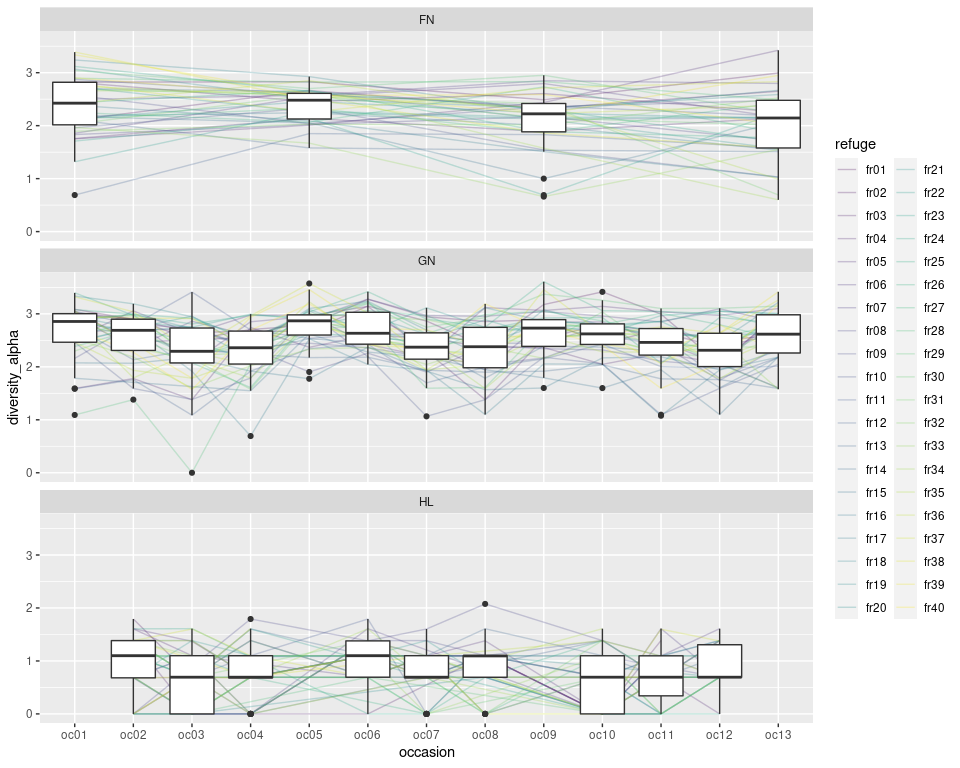
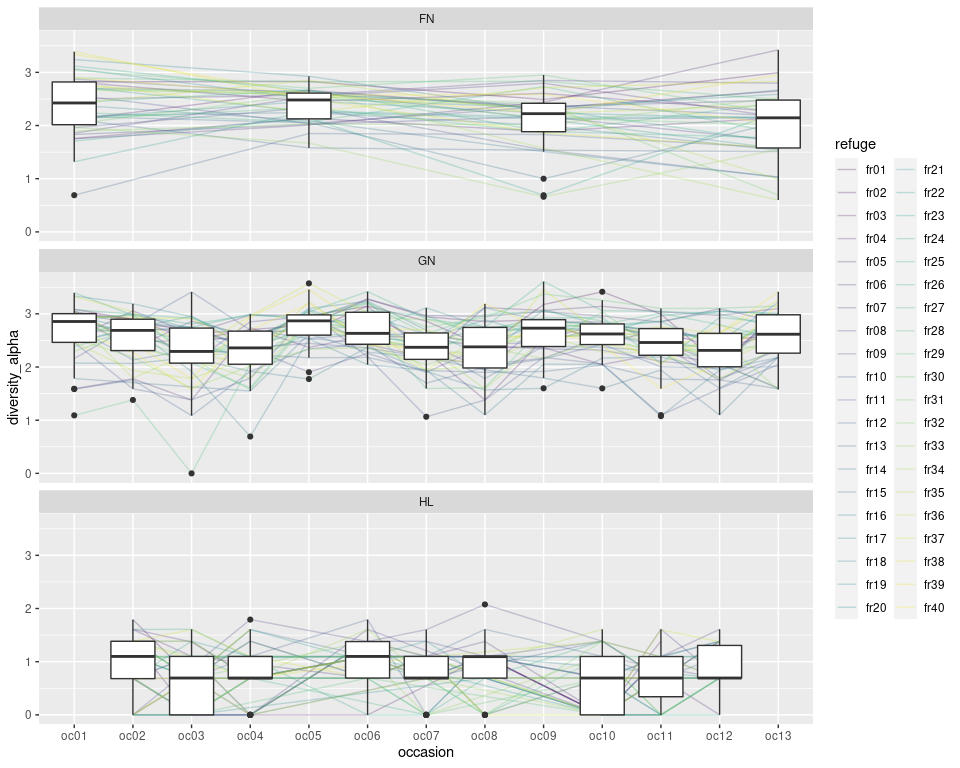
Further checks to diversity notebook

diff --git a/notebooks/diversity.md b/notebooks/diversity.md
@@ -86,7 +86,7 @@ occasion_cov <- occasion_info %>%
          visibility = secchi_depth, 
          aquatic_plant_index = aquatic_plant_area * aquatic_plant_density, 
          across(c("month", "year"), as.character)) %>%
-  select(occasion, year, season, month, water_level, water_temp, visibility,
+  select(refuge, occasion, year, season, month, water_level, water_temp, visibility,
          aquatic_plant_area, aquatic_plant_index, brush_park) %>%
   distinct()
 
@@ -99,7 +99,7 @@ refuge_cov <- refuge_info %>%
 
 diversity_cov <- diversity %>%
   left_join(refuge_cov, by = "refuge") %>%
-  left_join(occasion_cov, by = "occasion") %>%
+  left_join(occasion_cov, by = c("occasion", "refuge")) %>%
   filter(gear == "GN")
 ```
 
@@ -116,8 +116,8 @@ inspectdf::inspect_na(diversity_cov) %>% filter(pcnt > 0) %>% knitr::kable()
 
 | col\_name             | cnt |      pcnt |
 | :-------------------- | --: | --------: |
-| water\_temp           | 280 | 1.3564577 |
-| aquatic\_plant\_index |  40 | 0.1937797 |
+| water\_temp           |   7 | 1.3513514 |
+| aquatic\_plant\_index |   1 | 0.1930502 |
 
 It appears that all cases of missing water temperature are within the
 first occasion at the end of the wet season in 2012.
@@ -216,23 +216,23 @@ summary(m_c)
     ## 
     ## Residuals:
     ##      Min       1Q   Median       3Q      Max 
-    ## -2.33744 -0.26551  0.05699  0.32983  1.07401 
+    ## -2.33628 -0.26363  0.05577  0.32932  1.07517 
     ## 
     ## Coefficients:
-    ##              Estimate Std. Error t value Pr(>|t|)    
-    ## (Intercept)  2.675336   0.011630 230.045  < 2e-16 ***
-    ## month2      -0.046763   0.009536  -4.904 9.46e-07 ***
-    ## month5      -0.324776   0.009536 -34.060  < 2e-16 ***
-    ## month8      -0.354416   0.009496 -37.324  < 2e-16 ***
-    ## year2013    -0.013122   0.014257  -0.920    0.357    
-    ## year2014     0.020079   0.014247   1.409    0.159    
-    ## year2015    -0.013607   0.014247  -0.955    0.340    
+    ##             Estimate Std. Error t value Pr(>|t|)    
+    ## (Intercept)  2.67534    0.07409  36.107  < 2e-16 ***
+    ## month2      -0.04734    0.06063  -0.781    0.435    
+    ## month5      -0.32535    0.06063  -5.367 1.22e-07 ***
+    ## month8      -0.35442    0.06050  -5.858 8.38e-09 ***
+    ## year2013    -0.01370    0.09079  -0.151    0.880    
+    ## year2014     0.02037    0.09076   0.224    0.823    
+    ## year2015    -0.01332    0.09076  -0.147    0.883    
     ## ---
     ## Signif. codes:  0 '***' 0.001 '**' 0.01 '*' 0.05 '.' 0.1 ' ' 1
     ## 
-    ## Residual standard error: 0.4652 on 20635 degrees of freedom
-    ## Multiple R-squared:  0.1077, Adjusted R-squared:  0.1074 
-    ## F-statistic: 414.9 on 6 and 20635 DF,  p-value: < 2.2e-16
+    ## Residual standard error: 0.4686 on 511 degrees of freedom
+    ## Multiple R-squared:  0.1075, Adjusted R-squared:  0.09702 
+    ## F-statistic: 10.26 on 6 and 511 DF,  p-value: 9.781e-11
 
 ``` r
 m_m <- lm(diversity_alpha ~ water_level + aquatic_plant_area + brush_park + water_temp, 
@@ -247,22 +247,22 @@ summary(m_m)
     ## 
     ## Residuals:
     ##      Min       1Q   Median       3Q      Max 
-    ## -2.57908 -0.29393  0.05067  0.37234  1.13308 
+    ## -2.48739 -0.30476  0.04681  0.36366  1.10807 
     ## 
     ## Coefficients:
     ##                      Estimate Std. Error t value Pr(>|t|)    
-    ## (Intercept)         2.862e+00  4.096e-02  69.874   <2e-16 ***
-    ## water_level         3.915e-04  4.613e-05   8.486   <2e-16 ***
-    ## aquatic_plant_area  2.377e-04  1.268e-04   1.875   0.0608 .  
-    ## brush_park         -1.317e-05  1.500e-05  -0.878   0.3799    
-    ## water_temp         -1.457e-02  1.342e-03 -10.859   <2e-16 ***
+    ## (Intercept)         2.958e+00  2.569e-01  11.517   <2e-16 ***
+    ## water_level         1.388e-04  2.893e-04   0.480   0.6316    
+    ## aquatic_plant_area -9.713e-04  7.941e-04  -1.223   0.2218    
+    ## brush_park          1.696e-04  9.406e-05   1.803   0.0719 .  
+    ## water_temp         -1.639e-02  8.415e-03  -1.947   0.0521 .  
     ## ---
     ## Signif. codes:  0 '***' 0.001 '**' 0.01 '*' 0.05 '.' 0.1 ' ' 1
     ## 
-    ## Residual standard error: 0.4896 on 20357 degrees of freedom
-    ##   (280 observations deleted due to missingness)
-    ## Multiple R-squared:  0.009384,   Adjusted R-squared:  0.00919 
-    ## F-statistic: 48.21 on 4 and 20357 DF,  p-value: < 2.2e-16
+    ## Residual standard error: 0.4864 on 506 degrees of freedom
+    ##   (7 observations deleted due to missingness)
+    ## Multiple R-squared:  0.01968,    Adjusted R-squared:  0.01193 
+    ## F-statistic:  2.54 on 4 and 506 DF,  p-value: 0.03914
 
 We found that the average difference between the beginning and end of
 the seasons is fairly small and that the differences among years is also
@@ -277,3 +277,202 @@ categorical variable.
 If we use models like this in the actual paper we should focus on the
 categorical model and explain how environmental co-variates change
 across seasons.
+
+``` r
+diversity_wide <- diversity_cov %>%
+  mutate(year_s = (as.numeric(substr(occasion, 3, 4))-1) %/% 4, 
+         month_s = paste0("m_", month)) %>% 
+  pivot_wider(id_cols = c(refuge, year), 
+              names_from = month_s, 
+              values_from = diversity_alpha) 
+
+diversity_wide %>%
+  inspectdf::inspect_cor() %>%
+  inspectdf::show_plot()
+```
+
+![](diversity_files/figure-gfm/unnamed-chunk-13-1.png)<!-- -->
+
+``` r
+library(brms)
+```
+
+    ## Loading required package: Rcpp
+
+    ## Loading 'brms' package (version 2.14.4). Useful instructions
+    ## can be found by typing help('brms'). A more detailed introduction
+    ## to the package is available through vignette('brms_overview').
+
+    ## 
+    ## Attaching package: 'brms'
+
+    ## The following object is masked from 'package:stats':
+    ## 
+    ##     ar
+
+``` r
+m_dw <- brm(m_8 ~ m_5 + (1 | year) + (1 | refuge), data = diversity_wide)
+```
+
+    ## Compiling Stan program...
+
+    ## Trying to compile a simple C file
+
+    ## Running /usr/local/lib/R/bin/R CMD SHLIB foo.c
+    ## make[1]: Entering directory '/tmp/RtmpZ9o6Ja'
+    ## gcc -I"/usr/local/lib/R/include" -DNDEBUG   -I"/usr/local/lib/R/site-library/Rcpp/include/"  -I"/usr/local/lib/R/site-library/RcppEigen/include/"  -I"/usr/local/lib/R/site-library/RcppEigen/include/unsupported"  -I"/usr/local/lib/R/site-library/BH/include" -I"/usr/local/lib/R/site-library/StanHeaders/include/src/"  -I"/usr/local/lib/R/site-library/StanHeaders/include/"  -I"/usr/local/lib/R/site-library/RcppParallel/include/"  -I"/usr/local/lib/R/site-library/rstan/include" -DEIGEN_NO_DEBUG  -DBOOST_DISABLE_ASSERTS  -DBOOST_PENDING_INTEGER_LOG2_HPP  -DSTAN_THREADS  -DBOOST_NO_AUTO_PTR  -include '/usr/local/lib/R/site-library/StanHeaders/include/stan/math/prim/mat/fun/Eigen.hpp'  -D_REENTRANT -DRCPP_PARALLEL_USE_TBB=1   -I/usr/local/include   -fpic  -g -O2 -fstack-protector-strong -Wformat -Werror=format-security -Wdate-time -D_FORTIFY_SOURCE=2 -g  -c foo.c -o foo.o
+    ## In file included from /usr/local/lib/R/site-library/RcppEigen/include/Eigen/Core:88,
+    ##                  from /usr/local/lib/R/site-library/RcppEigen/include/Eigen/Dense:1,
+    ##                  from /usr/local/lib/R/site-library/StanHeaders/include/stan/math/prim/mat/fun/Eigen.hpp:13,
+    ##                  from <command-line>:
+    ## /usr/local/lib/R/site-library/RcppEigen/include/Eigen/src/Core/util/Macros.h:613:1: error: unknown type name ‘namespace’
+    ##   613 | namespace Eigen {
+    ##       | ^~~~~~~~~
+    ## /usr/local/lib/R/site-library/RcppEigen/include/Eigen/src/Core/util/Macros.h:613:17: error: expected ‘=’, ‘,’, ‘;’, ‘asm’ or ‘__attribute__’ before ‘{’ token
+    ##   613 | namespace Eigen {
+    ##       |                 ^
+    ## In file included from /usr/local/lib/R/site-library/RcppEigen/include/Eigen/Dense:1,
+    ##                  from /usr/local/lib/R/site-library/StanHeaders/include/stan/math/prim/mat/fun/Eigen.hpp:13,
+    ##                  from <command-line>:
+    ## /usr/local/lib/R/site-library/RcppEigen/include/Eigen/Core:96:10: fatal error: complex: No such file or directory
+    ##    96 | #include <complex>
+    ##       |          ^~~~~~~~~
+    ## compilation terminated.
+    ## make[1]: *** [/usr/local/lib/R/etc/Makeconf:167: foo.o] Error 1
+    ## make[1]: Leaving directory '/tmp/RtmpZ9o6Ja'
+
+    ## Start sampling
+
+    ## 
+    ## SAMPLING FOR MODEL 'd29713d24a31c0a529f235cfe9de0b12' NOW (CHAIN 1).
+    ## Chain 1: 
+    ## Chain 1: Gradient evaluation took 2.5e-05 seconds
+    ## Chain 1: 1000 transitions using 10 leapfrog steps per transition would take 0.25 seconds.
+    ## Chain 1: Adjust your expectations accordingly!
+    ## Chain 1: 
+    ## Chain 1: 
+    ## Chain 1: Iteration:    1 / 2000 [  0%]  (Warmup)
+    ## Chain 1: Iteration:  200 / 2000 [ 10%]  (Warmup)
+    ## Chain 1: Iteration:  400 / 2000 [ 20%]  (Warmup)
+    ## Chain 1: Iteration:  600 / 2000 [ 30%]  (Warmup)
+    ## Chain 1: Iteration:  800 / 2000 [ 40%]  (Warmup)
+    ## Chain 1: Iteration: 1000 / 2000 [ 50%]  (Warmup)
+    ## Chain 1: Iteration: 1001 / 2000 [ 50%]  (Sampling)
+    ## Chain 1: Iteration: 1200 / 2000 [ 60%]  (Sampling)
+    ## Chain 1: Iteration: 1400 / 2000 [ 70%]  (Sampling)
+    ## Chain 1: Iteration: 1600 / 2000 [ 80%]  (Sampling)
+    ## Chain 1: Iteration: 1800 / 2000 [ 90%]  (Sampling)
+    ## Chain 1: Iteration: 2000 / 2000 [100%]  (Sampling)
+    ## Chain 1: 
+    ## Chain 1:  Elapsed Time: 0.350817 seconds (Warm-up)
+    ## Chain 1:                0.188193 seconds (Sampling)
+    ## Chain 1:                0.53901 seconds (Total)
+    ## Chain 1: 
+    ## 
+    ## SAMPLING FOR MODEL 'd29713d24a31c0a529f235cfe9de0b12' NOW (CHAIN 2).
+    ## Chain 2: 
+    ## Chain 2: Gradient evaluation took 1.7e-05 seconds
+    ## Chain 2: 1000 transitions using 10 leapfrog steps per transition would take 0.17 seconds.
+    ## Chain 2: Adjust your expectations accordingly!
+    ## Chain 2: 
+    ## Chain 2: 
+    ## Chain 2: Iteration:    1 / 2000 [  0%]  (Warmup)
+    ## Chain 2: Iteration:  200 / 2000 [ 10%]  (Warmup)
+    ## Chain 2: Iteration:  400 / 2000 [ 20%]  (Warmup)
+    ## Chain 2: Iteration:  600 / 2000 [ 30%]  (Warmup)
+    ## Chain 2: Iteration:  800 / 2000 [ 40%]  (Warmup)
+    ## Chain 2: Iteration: 1000 / 2000 [ 50%]  (Warmup)
+    ## Chain 2: Iteration: 1001 / 2000 [ 50%]  (Sampling)
+    ## Chain 2: Iteration: 1200 / 2000 [ 60%]  (Sampling)
+    ## Chain 2: Iteration: 1400 / 2000 [ 70%]  (Sampling)
+    ## Chain 2: Iteration: 1600 / 2000 [ 80%]  (Sampling)
+    ## Chain 2: Iteration: 1800 / 2000 [ 90%]  (Sampling)
+    ## Chain 2: Iteration: 2000 / 2000 [100%]  (Sampling)
+    ## Chain 2: 
+    ## Chain 2:  Elapsed Time: 0.432774 seconds (Warm-up)
+    ## Chain 2:                0.369537 seconds (Sampling)
+    ## Chain 2:                0.802311 seconds (Total)
+    ## Chain 2: 
+    ## 
+    ## SAMPLING FOR MODEL 'd29713d24a31c0a529f235cfe9de0b12' NOW (CHAIN 3).
+    ## Chain 3: 
+    ## Chain 3: Gradient evaluation took 1.8e-05 seconds
+    ## Chain 3: 1000 transitions using 10 leapfrog steps per transition would take 0.18 seconds.
+    ## Chain 3: Adjust your expectations accordingly!
+    ## Chain 3: 
+    ## Chain 3: 
+    ## Chain 3: Iteration:    1 / 2000 [  0%]  (Warmup)
+    ## Chain 3: Iteration:  200 / 2000 [ 10%]  (Warmup)
+    ## Chain 3: Iteration:  400 / 2000 [ 20%]  (Warmup)
+    ## Chain 3: Iteration:  600 / 2000 [ 30%]  (Warmup)
+    ## Chain 3: Iteration:  800 / 2000 [ 40%]  (Warmup)
+    ## Chain 3: Iteration: 1000 / 2000 [ 50%]  (Warmup)
+    ## Chain 3: Iteration: 1001 / 2000 [ 50%]  (Sampling)
+    ## Chain 3: Iteration: 1200 / 2000 [ 60%]  (Sampling)
+    ## Chain 3: Iteration: 1400 / 2000 [ 70%]  (Sampling)
+    ## Chain 3: Iteration: 1600 / 2000 [ 80%]  (Sampling)
+    ## Chain 3: Iteration: 1800 / 2000 [ 90%]  (Sampling)
+    ## Chain 3: Iteration: 2000 / 2000 [100%]  (Sampling)
+    ## Chain 3: 
+    ## Chain 3:  Elapsed Time: 0.442173 seconds (Warm-up)
+    ## Chain 3:                0.23461 seconds (Sampling)
+    ## Chain 3:                0.676783 seconds (Total)
+    ## Chain 3: 
+    ## 
+    ## SAMPLING FOR MODEL 'd29713d24a31c0a529f235cfe9de0b12' NOW (CHAIN 4).
+    ## Chain 4: 
+    ## Chain 4: Gradient evaluation took 2.4e-05 seconds
+    ## Chain 4: 1000 transitions using 10 leapfrog steps per transition would take 0.24 seconds.
+    ## Chain 4: Adjust your expectations accordingly!
+    ## Chain 4: 
+    ## Chain 4: 
+    ## Chain 4: Iteration:    1 / 2000 [  0%]  (Warmup)
+    ## Chain 4: Iteration:  200 / 2000 [ 10%]  (Warmup)
+    ## Chain 4: Iteration:  400 / 2000 [ 20%]  (Warmup)
+    ## Chain 4: Iteration:  600 / 2000 [ 30%]  (Warmup)
+    ## Chain 4: Iteration:  800 / 2000 [ 40%]  (Warmup)
+    ## Chain 4: Iteration: 1000 / 2000 [ 50%]  (Warmup)
+    ## Chain 4: Iteration: 1001 / 2000 [ 50%]  (Sampling)
+    ## Chain 4: Iteration: 1200 / 2000 [ 60%]  (Sampling)
+    ## Chain 4: Iteration: 1400 / 2000 [ 70%]  (Sampling)
+    ## Chain 4: Iteration: 1600 / 2000 [ 80%]  (Sampling)
+    ## Chain 4: Iteration: 1800 / 2000 [ 90%]  (Sampling)
+    ## Chain 4: Iteration: 2000 / 2000 [100%]  (Sampling)
+    ## Chain 4: 
+    ## Chain 4:  Elapsed Time: 0.594425 seconds (Warm-up)
+    ## Chain 4:                1.01005 seconds (Sampling)
+    ## Chain 4:                1.60448 seconds (Total)
+    ## Chain 4:
+
+``` r
+summary(m_dw)
+```
+
+    ##  Family: gaussian 
+    ##   Links: mu = identity; sigma = identity 
+    ## Formula: m_8 ~ m_5 + (1 | year) + (1 | refuge) 
+    ##    Data: diversity_wide (Number of observations: 119) 
+    ## Samples: 4 chains, each with iter = 2000; warmup = 1000; thin = 1;
+    ##          total post-warmup samples = 4000
+    ## 
+    ## Group-Level Effects: 
+    ## ~refuge (Number of levels: 40) 
+    ##               Estimate Est.Error l-95% CI u-95% CI Rhat Bulk_ESS Tail_ESS
+    ## sd(Intercept)     0.27      0.06     0.15     0.40 1.00      859     1205
+    ## 
+    ## ~year (Number of levels: 3) 
+    ##               Estimate Est.Error l-95% CI u-95% CI Rhat Bulk_ESS Tail_ESS
+    ## sd(Intercept)     0.11      0.15     0.00     0.51 1.01      870      761
+    ## 
+    ## Population-Level Effects: 
+    ##           Estimate Est.Error l-95% CI u-95% CI Rhat Bulk_ESS Tail_ESS
+    ## Intercept     1.56      0.25     1.08     2.09 1.01      797      535
+    ## m_5           0.32      0.09     0.13     0.51 1.00     1160     1384
+    ## 
+    ## Family Specific Parameters: 
+    ##       Estimate Est.Error l-95% CI u-95% CI Rhat Bulk_ESS Tail_ESS
+    ## sigma     0.36      0.03     0.30     0.43 1.00      940      553
+    ## 
+    ## Samples were drawn using sampling(NUTS). For each parameter, Bulk_ESS
+    ## and Tail_ESS are effective sample size measures, and Rhat is the potential
+    ## scale reduction factor on split chains (at convergence, Rhat = 1).
